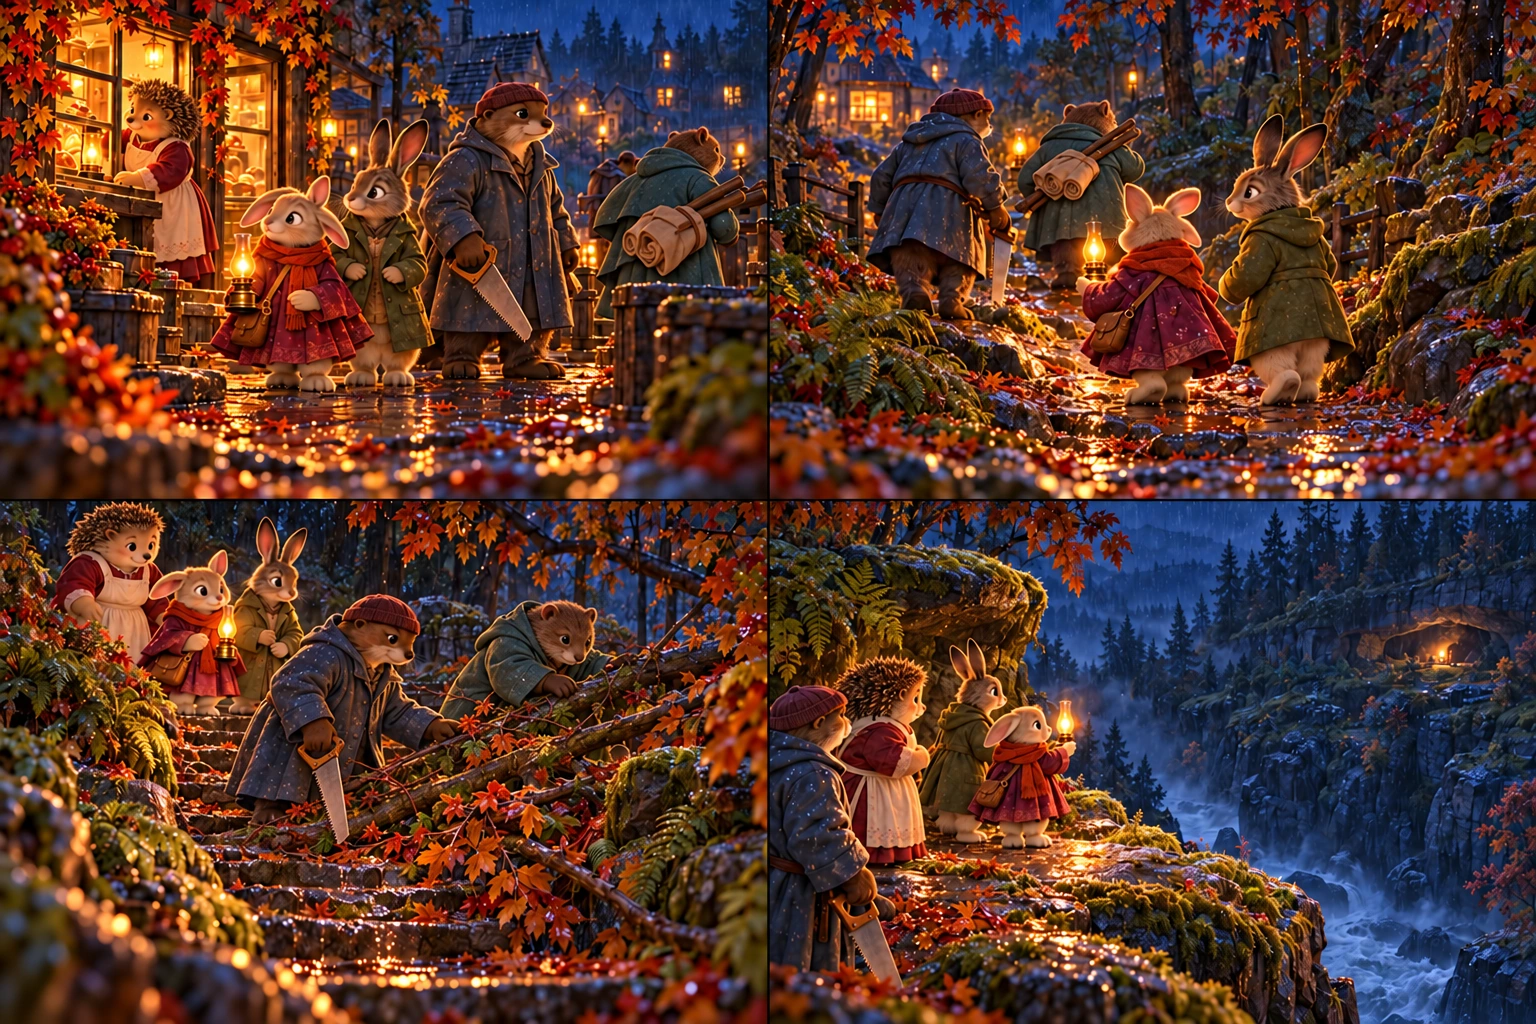
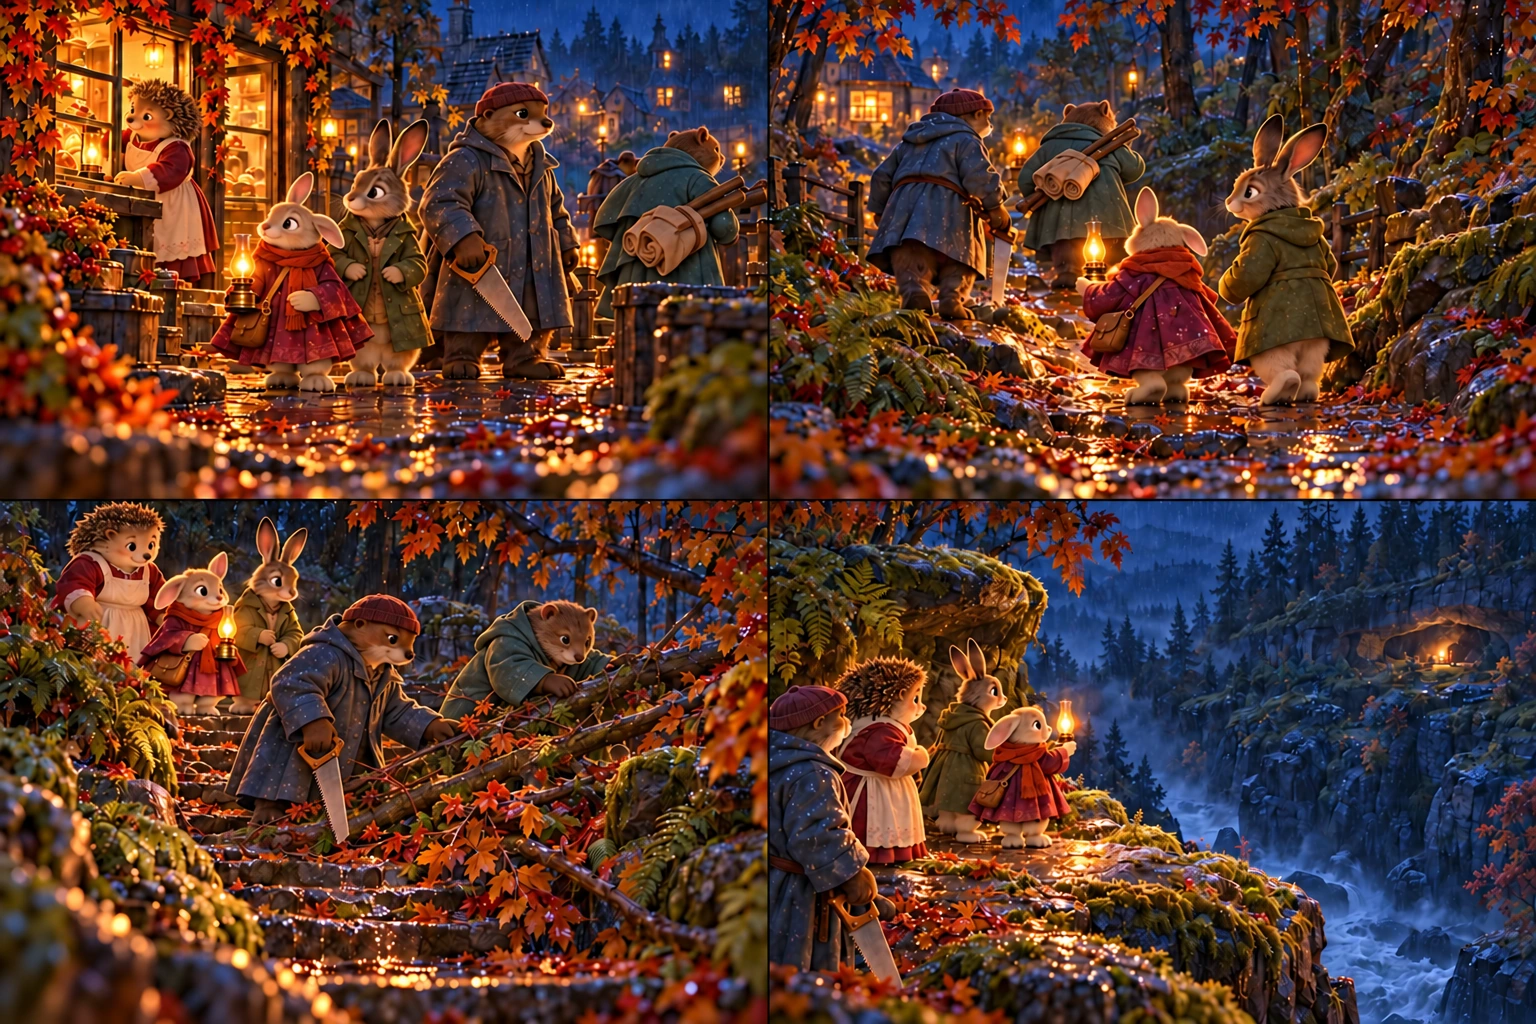
Correct extra rabbit ears in Two accounts and m21 artwork

diff --git a/woodland-crossings/frame-art.js b/woodland-crossings/frame-art.js
@@ -3,7 +3,7 @@ import {CHAPTER_SIX} from './chapter-six.js?v=20261030-art-story1';
 import {CHAPTER_FIVE_SIX_CASEWORK} from './chapter-five-six-casework.js';
 // Chapter 1 illustration frames. Story words and learning state remain elsewhere.
 import {placeFrogs,frogForScene} from './frogs.js?v=20261029-frog-perches1';
-import {QUESTION_SCENES,BONUS_SCENES} from './scenery.js?v=20261029-frog-perches1';
+import {QUESTION_SCENES,BONUS_SCENES} from './scenery.js?v=20261030-ears2';
 import {CHAPTER_ONE} from './chapter-one.js?v=20261022-character-names1';
 import {CHAPTER_TWO} from './chapter-two.js?v=20261022-character-names1';
 import {CHAPTER_THREE} from './chapter-three.js?v=20261022-character-names1';
@@ -42,7 +42,7 @@ for(const [i,scene] of CHAPTER_THREE.entries()){
 // Chapter 4 stays beneath the bakery awning: four chronological views per scene.
 const chapterFourAnchors=[[0,1,2,3],[0,1,2,5],[0,2,4,6],[0,2,3,5],[0,1,5,8]];
 for(const [i,scene] of CHAPTER_FOUR.entries()){
- const asset=`chapter-four/frames/sheet-${String(i+1).padStart(2,'0')}.webp?v=c4art1`;
+ const asset=`chapter-four/frames/sheet-${String(i+1).padStart(2,'0')}.webp?v=c4ears2`;
  for(const [cell,paragraph] of chapterFourAnchors[i].entries())FRAME_ART.push({id:`${scene.id}-art-${cell}`,scene:scene.id,kind:'story',cell,asset,text:scene.paragraphs[paragraph],...(i===2&&cell===0?{focus:.3}:{})});
  FRAME_ART.push({id:scene.id+'-question',scene:scene.id,kind:'question',cell:3,asset,text:'Chapter 4 language notes'});
 }
@@ -65,7 +65,7 @@ const chapterFiveAnchors=[
  [0,1,2,5].map(i=>CHAPTER_FIVE[4].paragraphs[i])
 ];
 for(const [i,scene] of CHAPTER_FIVE.entries())for(const [cell,text] of chapterFiveAnchors[i].entries()){
- FRAME_ART.push({id:`${scene.id}-art-${cell}`,scene:scene.id,kind:'story',cell,asset:`chapter-five/frames/sheet-${String(i+1).padStart(2,'0')}.webp?v=c5art1`,text,focus:.5});
+ FRAME_ART.push({id:`${scene.id}-art-${cell}`,scene:scene.id,kind:'story',cell,asset:`chapter-five/frames/sheet-${String(i+1).padStart(2,'0')}.webp?v=c5ears2`,text,focus:.5});
 }
 for(const task of [...CHAPTER_FOUR_CASEWORK,...CHAPTER_FIVE_SIX_CASEWORK]){const art=FRAME_ART.find(f=>f.id===task.question+'-question');FRAME_ART.push({...art,id:task.id,kind:'casework',text:task.context});}
 // Restore selected earlier scenery as quiet cutaways; keep narrative anchors intact.

diff --git a/woodland-crossings/app.js b/woodland-crossings/app.js
@@ -1,7 +1,7 @@
 import {testerEnabled,testState} from './chapter-tester.js?v=20261030-tester1';
 import {observeNotebookText} from './clue-notebook.js?v=20261022-clue-notebook1';
 import {createClueNotebook} from './clue-notebook-view.js?v=20261022-clue-notebook1';
-import {FRAME_ART,questionFrameArt,caseworkFrameArt,textFrameArt,readingScreenFrame,explorationFrameArt,paintFrame} from './frame-art.js?v=20261030-art-story1';
+import {FRAME_ART,questionFrameArt,caseworkFrameArt,textFrameArt,readingScreenFrame,explorationFrameArt,paintFrame} from './frame-art.js?v=20261030-ears2';
 import {FROGS,frogFinds,frogForScene,frogReached,frogArt,placeFrogs} from './frogs.js?v=20261029-frog-perches1';
 import './page-keys.js?v=20261022-clue-notebook1';
 import {createPageSound,isPageTurn} from './page-sound.js';
@@ -10,7 +10,7 @@ import {caseworkFor,caseworkState,updateCasework,submitCasework} from './casewor
 import {CHAPTER_THREE_REFLECTION} from './chapter-three.js?v=20261022-character-names1';
 import {CASE_TITLE,CASES,EGGS,discoveryList,unlockedCases,tokenArt} from './halloween.js?v=20261022-character-names1';
 import {rabbitArt,landscape,buildingArt} from './visuals.js';
-import {SCENES,questionScene,selectQuestionScene} from './scenery.js?v=20261029-frog-perches1';
+import {SCENES,questionScene,selectQuestionScene} from './scenery.js?v=20261030-ears2';
 import {MUSIC,TENSION_MUSIC,createMusicController,chapterMusicMood} from './music.js?v=20261022-character-names1';
 import {STORY_SCENES,storyScene,readingScene,readingPages,needsStory,storyPosition,setStoryPosition,finishStoryScene,availableStoryScenes,storyProseHTML} from './story-reader.js?v=20261030-art-story1';
 import {finishingTouches} from './finishing-touches.js?v=20261022-character-names1';

diff --git a/woodland-crossings/scenery.js b/woodland-crossings/scenery.js
@@ -36,7 +36,7 @@ for(const view of QUESTION_SCENES.filter(x=>x.stage===2))Object.assign(view,{
 SCENES[2]={...QUESTION_SCENES.find(x=>x.stage===2&&x.view===0)};
 // Witnesses compare their accounts beneath the bakery awning throughout Chapter 4.
 for(const view of QUESTION_SCENES.filter(x=>x.stage===3))Object.assign(view,{
- asset:`chapter-four/frames/sheet-${String(view.view+1).padStart(2,'0')}.webp?v=c4art1`,
+ asset:`chapter-four/frames/sheet-${String(view.view+1).padStart(2,'0')}.webp?v=c4ears2`,
  name:['Back beneath the awning','Two accounts','Time between the sounds','The way round','Supper for three'][view.view],
  indoors:false,focus:'100% 100%',scale:'200% 200%'
 });
@@ -53,7 +53,7 @@ const laterLocations=[['The old steps','The signal rock','The signal rock','The 
 for(const view of QUESTION_SCENES.filter(x=>x.stage>=4))view.name=laterLocations[view.stage-4][view.view];
 // Optional trails use fixed, reviewed paintings rather than numeric chapter fallbacks.
 export const BONUS_SCENES={
- b1:{stage:4,asset:'chapter-five/frames/sheet-03.webp?v=c5art1',cell:2,name:'The map at the signal rock'},
+ b1:{stage:4,asset:'chapter-five/frames/sheet-03.webp?v=c5ears2',cell:2,name:'The map at the signal rock'},
  b2:{stage:3,asset:'chapter-six/frames/sheet-01.webp?v=c6art1',cell:2,name:'Bram and the chipped bell'},
  b3:{stage:5,asset:'chapter-six/frames/sheet-01.webp?v=c6art1',cell:3,name:'The return to the bakery'}
 };

diff --git a/index.html b/index.html
@@ -4,4 +4,4 @@
 <main id="app"></main><footer><span>A lantern in the fog. A story coming together.</span><span>Progress saves on this browser · <button id="saveBtn" class="text-button">Save status</button></span></footer>
 <dialog id="modal"><div id="modalBody"></div><button id="closeModal" class="primary">Back to the trail</button></dialog><div id="announce" class="sr-only" aria-live="polite"></div>
 <script type="module" src="ipad-layout.js?v=20261028-ipad-cover1"></script>
-<script type="module" src="app.js?v=20261030-tester1"></script></body></html>
+<script type="module" src="app.js?v=20261030-ears2"></script></body></html>

diff --git a/woodland-crossings/index.html b/woodland-crossings/index.html
@@ -4,4 +4,4 @@
 <main id="app"></main><footer><span>A lantern in the fog. A story coming together.</span><span>Progress saves on this browser · <button id="saveBtn" class="text-button">Save status</button></span></footer>
 <dialog id="modal"><div id="modalBody"></div><button id="closeModal" class="primary">Back to the trail</button></dialog><div id="announce" class="sr-only" aria-live="polite"></div>
 <script type="module" src="ipad-layout.js?v=20261028-ipad-cover1"></script>
-<script type="module" src="app.js?v=20261030-tester1"></script></body></html>
+<script type="module" src="app.js?v=20261030-ears2"></script></body></html>

diff --git a/woodland-crossings/CHECKPOINT.md b/woodland-crossings/CHECKPOINT.md
@@ -525,3 +525,9 @@ Validation: 181/181 automated tests pass; git diff --check passes. No manual bro
 Added `?test=1` entry and persistent test controls, scene/question jumps across all six chapters, direct secret-stage access and exit to the normal game. Jumps create fresh isolated test progress; normal saves remain untouched. Updated app cache versions and documented usage.
 
 Validation: 182/182 tests pass, including all thirty reading/question entry states, three secret states and real UI/save-isolation handlers. git diff --check passes. Live browser/device verification remains outstanding.
+
+## 2026-10-30 — Two accounts and m21 extra ears
+
+Replaced Chapter 4 sheet 02 and Chapter 5 sheet 01 using two targeted built-in image edits. Corrected Poppy’s ear silhouettes in all four views of each sheet, preserving the atlas layouts and cast. User report supersedes the earlier Chapter 4 no-error finding. Refreshed asset, rendering-module and app cache versions. Generation source/prompt notes sit beside each atlas.
+
+Validation: both generated sheets visually reviewed; 1536×1024 WebP encoding retained. All 182 automated tests pass and git diff --check passes. Live browser/device verification remains outstanding.

diff --git a/woodland-crossings/assets/chapter-five/frames/ARTWORK.md b/woodland-crossings/assets/chapter-five/frames/ARTWORK.md
@@ -17,3 +17,7 @@ Exact built-in image generator prompts are in prompts.json and corrections.json.
 Reading anchors are defined in frame-art.js: m21 uses the opening, bakery-window sentence, and paragraphs 1–2; m22 uses paragraphs 0, 1, 3, 6; m23 uses 0, 1, 2, 4; m24 uses 0–3; m25 uses 0, 1, 2, 5. Clock, landing, echo and hush frogs appear only on their opening reading screen and disappear on subsequent pages or parts. Exploration reuses the same painting. A panel-overlap guard hides obscured frogs.
 
 Validation: all 174 automated tests pass, including scene ordering, asset mappings, frog visibility and panel geometry. All five 1536×1024 sheets were visually inspected. Live deployment and a manual iPad playthrough have not been verified.
+
+## 30 October 2026 — Reported extra-ear correction
+
+Replaced sheet 01 after a user report of three ears. Built-in image editing clarified Poppy’s two-ear silhouette (one upright, one bent) in all four views. Both rabbit designs and scene composition visually reviewed. This supersedes the earlier no-error finding for this sheet. Selected source: exec-30b9f646-46e0-47a3-a289-2124020ab0e6.png.

diff --git a/woodland-crossings/assets/chapter-four/frames/ARTWORK.md b/woodland-crossings/assets/chapter-four/frames/ARTWORK.md
@@ -25,3 +25,7 @@ Review outcome: corrected missing/obscured upright ears on sheet 01, an extra ea
 ## 30 October 2026 — Continuity review
 
 Restored the Chapter 4 conversation paintings at m17-art-1 and m19-art-2, removing older calm-river cutaways that conflicted with the bakery setting and worsening flood. Reviewed all twenty Chapter 4 source paintings: no obvious three-ear rabbit errors found. No image generation or image edits required.
+
+## 30 October 2026 — Reported extra-ear correction
+
+Replaced sheet 02 after a user report of three ears. Built-in image editing clarified Poppy’s two-ear silhouette (one upright, one bent) in all four views. Both rabbit designs and scene composition visually reviewed. This supersedes the earlier no-error finding for this sheet. Selected source: exec-a61878ab-6544-4b4e-8b6e-b4a28b6f3415.png.
